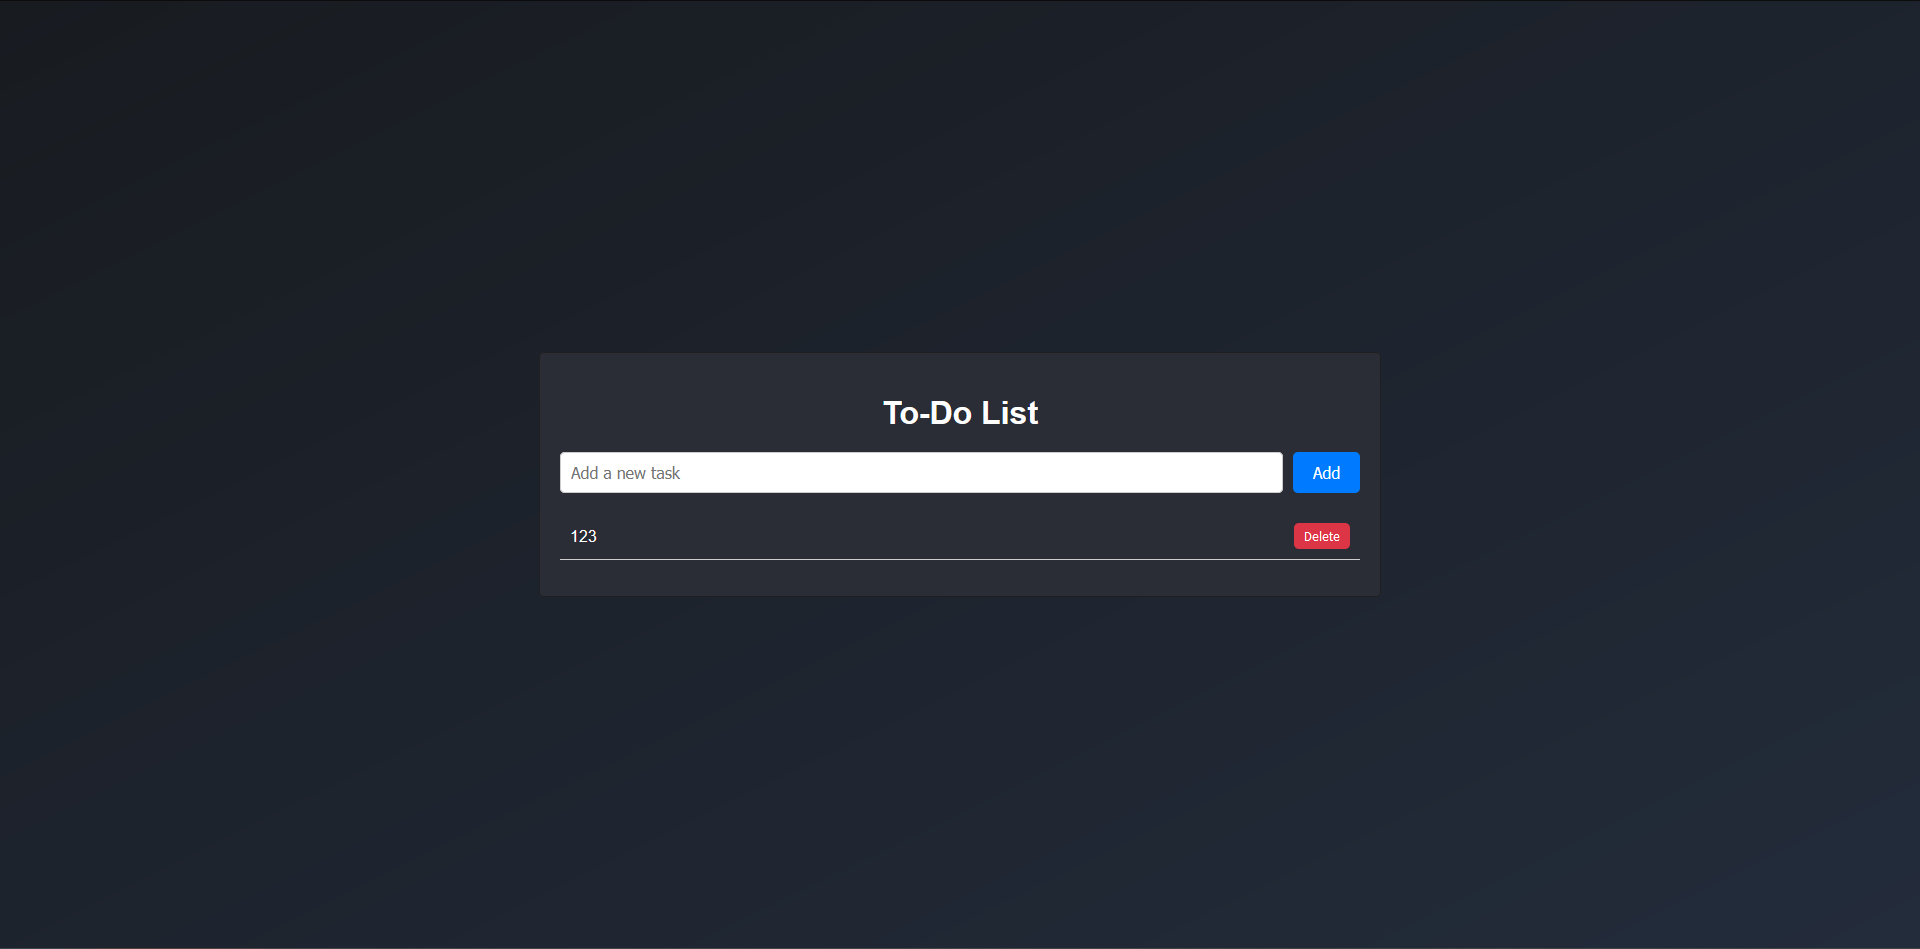
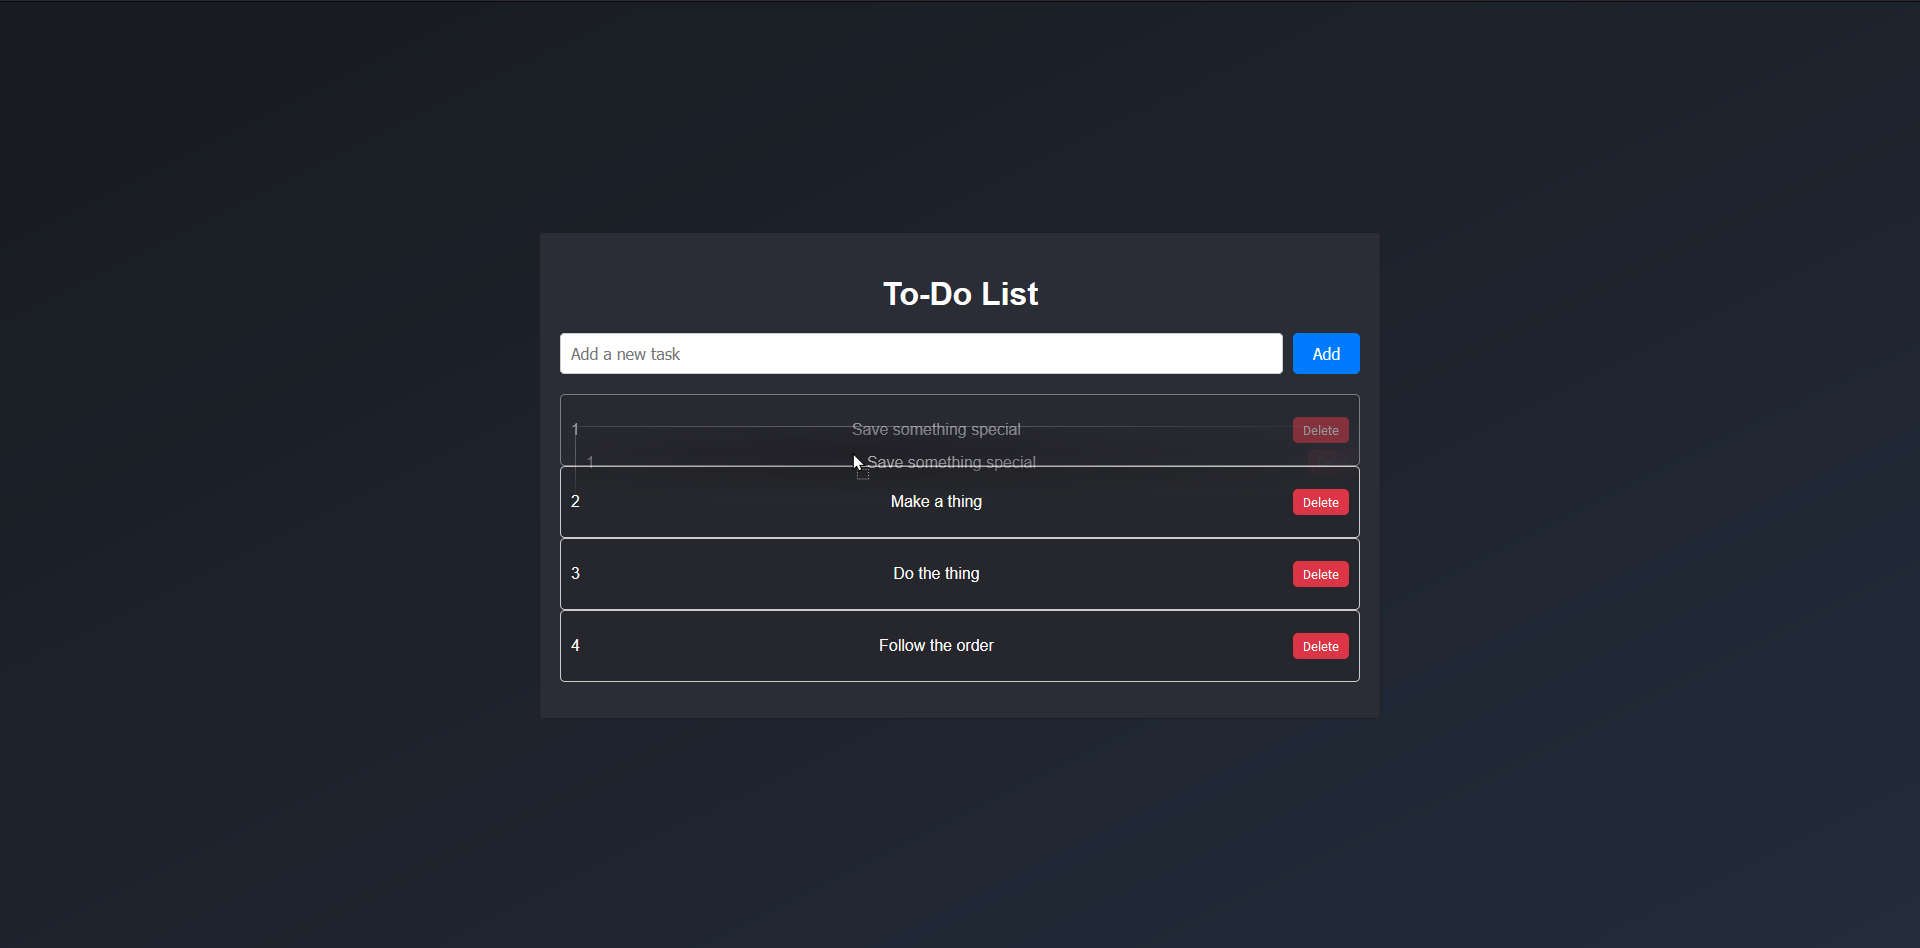
Add drag&drop support

diff --git a/src/Task.jsx b/src/Task.jsx
@@ -1,0 +1,58 @@
+import React from "react";
+import { useDrag, useDrop } from "react-dnd";
+import "./Task.css";
+
+function Task({
+  task = "None",
+  index = -1,
+  moveTask = function () {},
+  toggleTaskCompletion = function () {},
+  deleteTask = function () {},
+}) {
+  const [{ isDragging }, dragRef] = useDrag(() => ({
+    type: "task",
+    item: { index },
+    collect: (monitor) => ({
+      isDragging: monitor.isDragging(),
+    }),
+  }));
+
+  const [spec, dropRef] = useDrop({
+    accept: "task",
+    hover: (task, monitor) => {
+      const dragIndex = task.index;
+      const hoverIndex = index;
+      const hoverBoundingRect = ref.current?.getBoundingClientRect();
+      const hoverMiddleY =
+        (hoverBoundingRect.bottom - hoverBoundingRect.top) / 2;
+      const hoverActualY = monitor.getClientOffset().y - hoverBoundingRect.top;
+
+      // if dragging down, continue only when hover is smaller than middle Y
+      if (dragIndex < hoverIndex && hoverActualY < hoverMiddleY) return;
+      // if dragging up, continue only when hover is bigger than middle Y
+      if (dragIndex > hoverIndex && hoverActualY > hoverMiddleY) return;
+
+      moveTask(dragIndex, hoverIndex);
+      task.index = hoverIndex;
+    },
+  });
+
+  const ref = React.useRef(null);
+  const dragDropRef = dragRef(dropRef(ref));
+
+  //drag(drop(ref));
+
+  return (
+    <div
+      ref={dragDropRef}
+      className={`task ${task.completed ? "completed" : ""}`}
+      style={{ opacity: isDragging ? 0.5 : 1 }}
+    >
+      <p>{index + 1}</p>
+      <span onClick={() => toggleTaskCompletion(index)}>{task.text}</span>
+      <button onClick={() => deleteTask(index)}>Delete</button>
+    </div>
+  );
+}
+
+export default Task;

diff --git a/src/ToDoList.jsx b/src/ToDoList.jsx
@@ -1,13 +1,32 @@
-import React, { useState } from "react";
+import React, { useState, useCallback } from "react";
+import Task from "./Task";
 import "./TodoList.css";
 
 function TodoList() {
   const [tasks, setTasks] = useState([]);
   const [newTask, setNewTask] = useState("");
 
+  const moveTask = useCallback(
+    (dragIndex, hoverIndex) => {
+      const dragItem = tasks[dragIndex];
+      const hoverItem = tasks[hoverIndex];
+      if (dragItem === hoverItem) {
+        return;
+      }
+      // Swap places of dragItem and hoverItem in the tasks array
+      setTasks((tasks) => {
+        const updatedTasks = [...tasks];
+        updatedTasks[dragIndex] = hoverItem;
+        updatedTasks[hoverIndex] = dragItem;
+        return updatedTasks;
+      });
+    },
+    [tasks]
+  );
+
   const addTask = () => {
     if (newTask.trim() !== "") {
-      setTasks([...tasks, { text: newTask, completed: false }]);
+      setTasks([...tasks, { id: Date.now(), text: newTask, completed: false, index: tasks.length }]);
       setNewTask("");
     }
   };
@@ -38,10 +57,14 @@ function TodoList() {
       </div>
       <ul>
         {tasks.map((task, index) => (
-          <li key={index} className={task.completed ? "completed" : ""}>
-            <span onClick={() => toggleTaskCompletion(index)}>{task.text}</span>
-            <button onClick={() => deleteTask(index)}>Delete</button>
-          </li>
+          <Task
+            key={task.id}
+            task={task}
+            index={index}
+            moveTask={moveTask}
+            toggleTaskCompletion={toggleTaskCompletion}
+            deleteTask={deleteTask}
+          />
         ))}
       </ul>
     </div>

diff --git a/src/Task.css b/src/Task.css
@@ -1,0 +1,28 @@
+.task {
+    display: flex;
+    justify-content: space-between;
+    align-items: center;
+    padding: 10px;
+    border: 1px solid #ccc;
+    border-radius: 5px;
+    background-color: #1f1f1f70;
+    cursor: pointer;
+}
+
+.task.completed span {
+    text-decoration: line-through;
+    color: #999;
+}
+
+.task button {
+    border: none;
+    background-color: #dc3545;
+    color: white;
+    padding: 5px 10px;
+    border-radius: 5px;
+    cursor: pointer;
+}
+
+.task button:hover {
+    background-color: #c82333;
+}

diff --git a/src/App.jsx b/src/App.jsx
@@ -1,9 +1,14 @@
 import TodoList from "./ToDoList";
+import { DndProvider } from "react-dnd";
+import { HTML5Backend } from "react-dnd-html5-backend";
 
 function App() {
+  // <TodoList />
   return (
     <>
-      <TodoList />
+      <DndProvider backend={HTML5Backend}>
+        <TodoList/>
+      </DndProvider>
     </>
   );
 }
